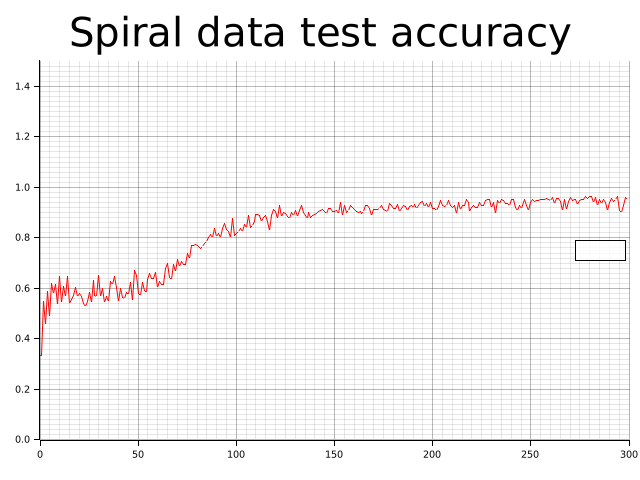
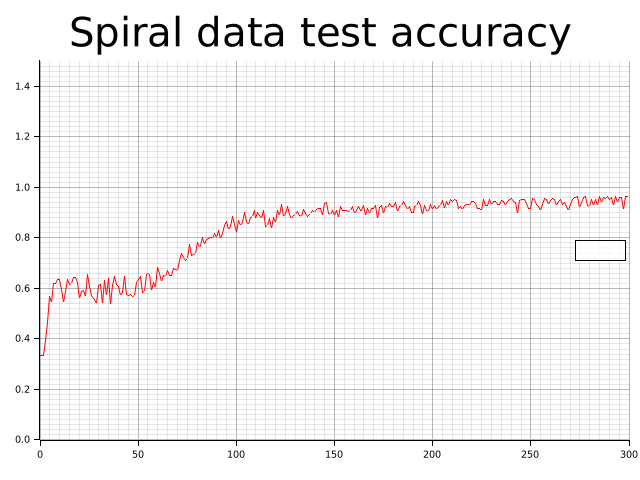
メモリリーク問題の対応

Changed region(s): [[0.3125, 0.4062, 1.0, 0.5], [0.0625, 0.5, 0.3125, 0.75]]

diff --git a/tests/stage3.rs b/tests/stage3.rs
@@ -49,6 +49,10 @@ fn test_step33_second_differential() {
     x.clear_grad();
     gx.backward();
     let x_2nd_grad = x.get_grad().unwrap().get_data().clone();
+
+    // 計算グラフ上の微分値を消去し、循環参照を解消する。
+    gx.clear_graph_grads();
+
     debug!("x 2nd grad: {:?}", x_2nd_grad);
     assert_eq!(expected_2nd_grad, x_2nd_grad);
 }
@@ -86,6 +90,9 @@ fn test_step33_newton_method() {
 
         let new_x_data = x.get_data() - (gx.get_data() / gx2.get_data());
         x.set_data(new_x_data);
+
+        // 計算グラフ上の微分値を消去し、循環参照を解消する。
+        gx.clear_graph_grads();        
     }
     debug!("results: {:?}", results);
     // 書籍と同じ値になることを確認する。
@@ -116,12 +123,20 @@ fn test_high_diffeential_sin() {
     y.backward_create_graph();
 
     let mut results: Vec<f64> = vec![];
+    let mut gx = x.get_grad().unwrap();
     for _i in 0..3 {
-        let gx = &x.get_grad().unwrap();
         x.clear_grad();
         gx.backward_create_graph();
-        results.push(x.get_grad().unwrap().get_data()[[]]);
+
+        // 次の階の微分値を、グラフの微分値を消去する前に取り出しておく。
+        let next_gx = x.get_grad().unwrap();
+        results.push(next_gx.get_data()[[]]);
+
+        // 計算グラフ上の微分値を消去し、循環参照を解消する。
+        gx.clear_graph_grads();
+        gx = next_gx;
     }
+
     assert_eq!(-0.8414709848078965, results[0]);
     assert_eq!(-0.5403023058681398, results[1]);
     assert_eq!(0.8414709848078965, results[2]);
@@ -150,11 +165,18 @@ fn test_step34_graph() {
     logs.push(y_data.flatten().to_vec());
 
     // 3階微分まで実行
+    let mut gx = x.get_grad().unwrap();
     for _i in 0..3 {
-        logs.push(x.get_grad().unwrap().get_data().flatten().to_vec());
-        let gx = x.get_grad().unwrap();
+        logs.push(gx.get_data().flatten().to_vec());
         x.clear_grad();
         gx.backward_create_graph();
+
+        // 次の階の微分値を、グラフの微分値を消去する前に取り出しておく。
+        let next_gx = x.get_grad().unwrap();
+
+        // 計算グラフ上の微分値を消去し、循環参照を解消する。
+        gx.clear_graph_grads();
+        gx = next_gx;
     }
 
     // 描画先の Backend を初期化する。
@@ -243,6 +265,7 @@ fn test_step34_tanh() {
     gx.set_name(format!("gx{}", current).to_string());
     let file_name = format!("test_step35_tanh_{}.png", current);
     plot_dot_graph!(gx, file_name, true);
+    gx.clear_graph_grads();
 }
 
 #[test]
@@ -299,4 +322,7 @@ fn tests_stage36_double_backprop() {
     let file_name = "test_step36_backprop.png";
     let x_grad = x.get_grad().unwrap();
     plot_dot_graph!(x_grad, file_name, true);
+    
+    // 計算グラフ上の微分値を消去し、循環参照を解消する。
+    z.clear_graph_grads();    
 }

diff --git a/src/modules/core/layer.rs b/src/modules/core/layer.rs
@@ -160,8 +160,8 @@ where
 /// レイヤの入出力やパラメータなどの値を保持する。
 #[derive(Debug, Clone)]
 pub struct LayerExecutor<V: MathOps + 'static> {
-    inputs: Vec<Weak<RefCell<Variable<V>>>>,   // 関数の入力値
-    outputs: Vec<Weak<RefCell<Variable<V>>>>,  //関数の出力値
+    inputs: Vec<Weak<RefCell<RawData<V>>>>,    // 関数の入力値
+    outputs: Vec<Weak<RefCell<RawData<V>>>>,   // 関数の出力値
     layer_function: Rc<RefCell<dyn Layer<V>>>, // レイヤー関数のトレイトオブジェクト
 }
 
@@ -188,9 +188,8 @@ impl<V: MathOps> LayerExecutor<V> {
     /// * inputs: Vec<Variable<V>>
     pub fn set_inputs(&mut self, inputs: Vec<Variable<V>>) {
         self.inputs = inputs
-            .clone()
             .iter()
-            .map(|input| Rc::downgrade(&Rc::new(RefCell::new(input.clone()))))
+            .map(|input| Rc::downgrade(&input.raw()))
             .collect();
     }
 
@@ -200,16 +199,15 @@ impl<V: MathOps> LayerExecutor<V> {
     /// * outputs: Vec<Variable<V>>
     pub fn set_outputs(&mut self, outputs: Vec<Variable<V>>) {
         self.outputs = outputs
-            .clone()
             .iter()
-            .map(|output| Rc::downgrade(&Rc::new(RefCell::new(output.clone()))))
+            .map(|output| Rc::downgrade(&output.raw()))
             .collect();
     }
     /// 入力値を取得する。
     ///
     /// Return
     /// * Vec<Weak<RefCell<Variable<V>>>>: 関数に対する入力値のベクタ
-    pub fn get_inputs(&self) -> Vec<Weak<RefCell<Variable<V>>>> {
+    pub fn get_inputs(&self) -> Vec<Weak<RefCell<RawData<V>>>> {
         self.inputs.clone()
     }
 
@@ -217,7 +215,7 @@ impl<V: MathOps> LayerExecutor<V> {
     ///
     /// Return
     /// * Vec<Weak<RefCell<Variable<V>>>>: 関数の出力値のベクタ
-    pub fn get_outputs(&self) -> Vec<Weak<RefCell<Variable<V>>>> {
+    pub fn get_outputs(&self) -> Vec<Weak<RefCell<RawData<V>>>> {
         self.outputs.clone()
     }
 

diff --git a/src/modules/core/variable.rs b/src/modules/core/variable.rs
@@ -62,6 +62,17 @@ impl<V: MathOps> Variable<V> {
     pub fn transpose(&self) -> Self {
         return transpose(self.clone());
     }
+
+    /// この変数から辿れる計算グラフ上の全ての変数の微分値を消去する。
+    /// backward_create_graph() で生じる循環参照を解消するため、使用後に呼び出すこと。
+    pub fn clear_graph_grads(&self) {
+        self.clear_grad();
+        for (_, creator) in FunctionExecutor::extract_creators(vec![self.clone()]) {
+            for input in creator.borrow().get_inputs() {
+                input.clear_grad();
+            }
+        }
+    }    
 }
 
 #[cfg(test)]

diff --git a/src/modules/core/raw_data.rs b/src/modules/core/raw_data.rs
@@ -395,6 +395,9 @@ pub trait RawDataProcessor<V: MathOps> {
 
     /// 逆伝播を実行する。
     /// 高階微分のため、微分値の計算グラフも作成する。
+    /// 
+    /// 注意) 微分値が計算グラフを保持するため、入力値との間に循環参照が発生する。
+    /// 微分値を使い終わったら Variable::clear_graph_grads() を呼び出して解放すること。
     fn backward_create_graph(&self) {
         self.raw().as_ref().clone().borrow().backward(true);
     }

diff --git a/src/modules/datasets.rs b/src/modules/datasets.rs
@@ -183,7 +183,7 @@ pub fn get_spiral(train: bool) -> (Array<f64, IxDyn>, Array<usize, IxDyn>) {
     let data_size = num_class * num_data;
 
     let mut x: Array<f64, _> = Array::zeros((data_size, input_dim));
-    let mut t: Array<usize, _> = Array::zeros((data_size));
+    let mut t: Array<usize, _> = Array::zeros(data_size);
 
     for j in 0..num_class {
         for i in 0..num_data {
